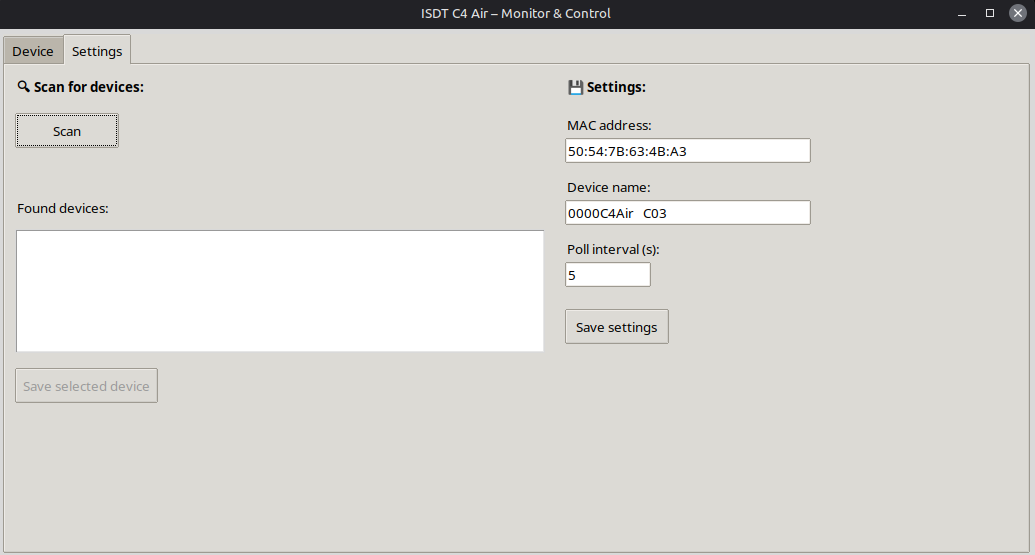
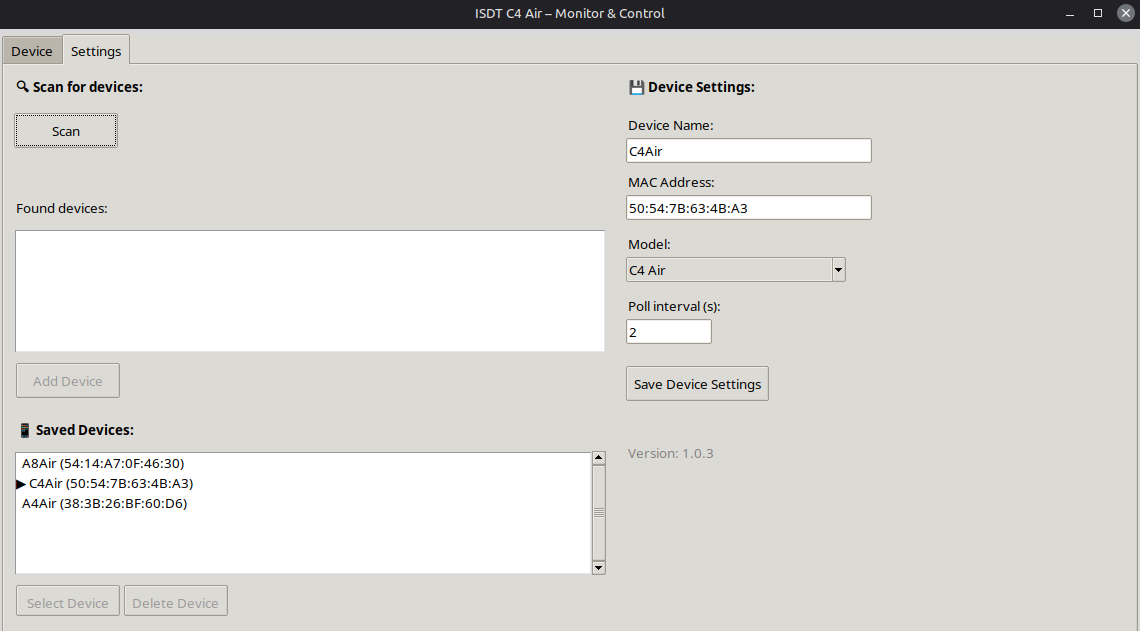
upd: fix hang on attempt 1/2..

Changed region(s): [[0.0, 0.0, 1.0, 1.0], [0.5565, 0.7045, 0.6184, 0.7351]]

diff --git a/isdt_ble.py b/isdt_ble.py
@@ -122,9 +122,6 @@ class ISDTBLE:
         self._last_bind_response = None
         self._a8_mega_packet_processed = False
 
-        # Cache for A8 Air max_current values
-        self._a8_max_current_cache = {}
-
     def _log(self, msg, force=False):
         if self.debug or force:
             if self.log_callback:
@@ -248,11 +245,11 @@ class ISDTBLE:
     async def connect(self, retries=3):
         """
         Establish BLE connection to the charger.
-        Always connects by MAC address string (no BLEDevice / no discover).
         """
         attempt = 0
-        while attempt <= retries:
+        while attempt < retries:
             client = None
+            connect_task = None
             try:
                 if sys.platform == "win32":
                     client = BleakClient(self.address, timeout=15.0)
@@ -260,12 +257,32 @@ class ISDTBLE:
                     client = BleakClient(self.address, timeout=10.0)
 
                 self.client = client
-                self._log(f"⏳ Connecting... (attempt {attempt+1}/{retries+1})", force=True)
+                self._log(f"⏳ Connecting... (attempt {attempt+1}/{retries})", force=True)
 
-                await asyncio.wait_for(client.connect(), timeout=15.0)
+                # Create a task for the connection attempt
+                async def do_connect():
+                    await client.connect()
+                
+                connect_task = asyncio.create_task(do_connect())
+                
+                # Wait for connection with timeout
+                try:
+                    await asyncio.wait_for(asyncio.shield(connect_task), timeout=20.0)
+                except asyncio.TimeoutError:
+                    self._log(f"⏳ Connect timeout (attempt {attempt+1})", force=True)
+                    # Cancel the task if it's still running
+                    if not connect_task.done():
+                        connect_task.cancel()
+                        try:
+                            await connect_task
+                        except asyncio.CancelledError:
+                            pass
+                    raise  # Re-raise to be caught by outer except
 
                 self.connected = True
                 self._log("✅ BLE connected.", force=True)
+
+                # Display MTU size
                 try:
                     self._log(f"📡 MTU: {client.mtu_size}", force=True)
                 except Exception:
@@ -277,7 +294,9 @@ class ISDTBLE:
                 await client.start_notify(CHAR_UUID_AF02, self.notification_handler)
                 self._log("✅ Notification handlers registered.", force=True)
 
+                # A8 Air on Windows needs extra settle time
                 if sys.platform == "win32" and self.is_a8:
+                    self._log("🔄 Windows: Extra settle time for A8 Air...", force=True)
                     await asyncio.sleep(1.5)
                 else:
                     await asyncio.sleep(POST_NOTIFICATION_SETUP)
@@ -292,11 +311,39 @@ class ISDTBLE:
 
                 return True
 
+            except asyncio.TimeoutError:
+                self._log(f"⏳ Connection timeout (attempt {attempt+1}/{retries})", force=True)
+                if connect_task and not connect_task.done():
+                    connect_task.cancel()
+                    try:
+                        await connect_task
+                    except asyncio.CancelledError:
+                        pass
+                if client is not None:
+                    try:
+                        await asyncio.wait_for(client.disconnect(), timeout=2.0)
+                    except Exception:
+                        pass
+                self.client = None
+                self.connected = False
+                attempt += 1
+                if attempt < retries:
+                    wait = 4.0 if sys.platform == "win32" else 2.0
+                    self._log(f"⏳ Waiting {wait:.0f}s before retry...", force=True)
+                    await asyncio.sleep(wait)
+
             except Exception as e:
                 error_msg = str(e).strip()
                 if not error_msg:
                     error_msg = f"{type(e).__name__} (empty message) {e!r}"
                 self._log(f"⚠ Connection error: {error_msg}", force=True)
+
+                if connect_task and not connect_task.done():
+                    connect_task.cancel()
+                    try:
+                        await connect_task
+                    except asyncio.CancelledError:
+                        pass
 
                 if client is not None:
                     try:
@@ -314,25 +361,17 @@ class ISDTBLE:
 
                 self.client = None
                 self.connected = False
-
-                err_l = error_msg.lower()
-                if "geschlossen" in err_l or "closed" in err_l or "-2147483629" in error_msg:
-                    wait = 8.0
-                elif sys.platform == "win32":
-                    wait = 4.0
-                else:
-                    wait = 2.0
-
-                self._log(f"⏳ Waiting {wait:.0f}s before retry...", force=True)
-                await asyncio.sleep(wait)
                 attempt += 1
+                if attempt < retries:
+                    wait = 4.0 if sys.platform == "win32" else 2.0
+                    self._log(f"⏳ Waiting {wait:.0f}s before retry...", force=True)
+                    await asyncio.sleep(wait)
 
         self._log("⚠ All connection attempts failed.", force=True)
         if sys.platform == "win32":
-            self._log(
-                "💡 Tip: Power-cycle the charger (unplug 15s), close ISD Link, then try again.",
-                force=True
-            )
+            self._log("💡 Tip: Power-cycle the charger (unplug 15s), then try again.", force=True)
+            self._log("💡 Tip: Close the ISD Link app on your smartphone.", force=True)
+            self._log("💡 Tip: Update your Bluetooth driver (especially Intel adapters).", force=True)
         else:
             self._log("💡 Tip: Please close the ISD Link app on your smartphone.", force=True)
             self._log("💡 Tip: Make sure the charger is powered on.", force=True)

diff --git a/isdt.py b/isdt.py
@@ -43,7 +43,7 @@ import os
 # ============================================================
 # VERSION
 # ============================================================
-APP_VERSION = "1.0.2"
+APP_VERSION = "1.0.3"
 
 # ============================================================
 # WINDOWS TASKLEISTE ICON FIX
